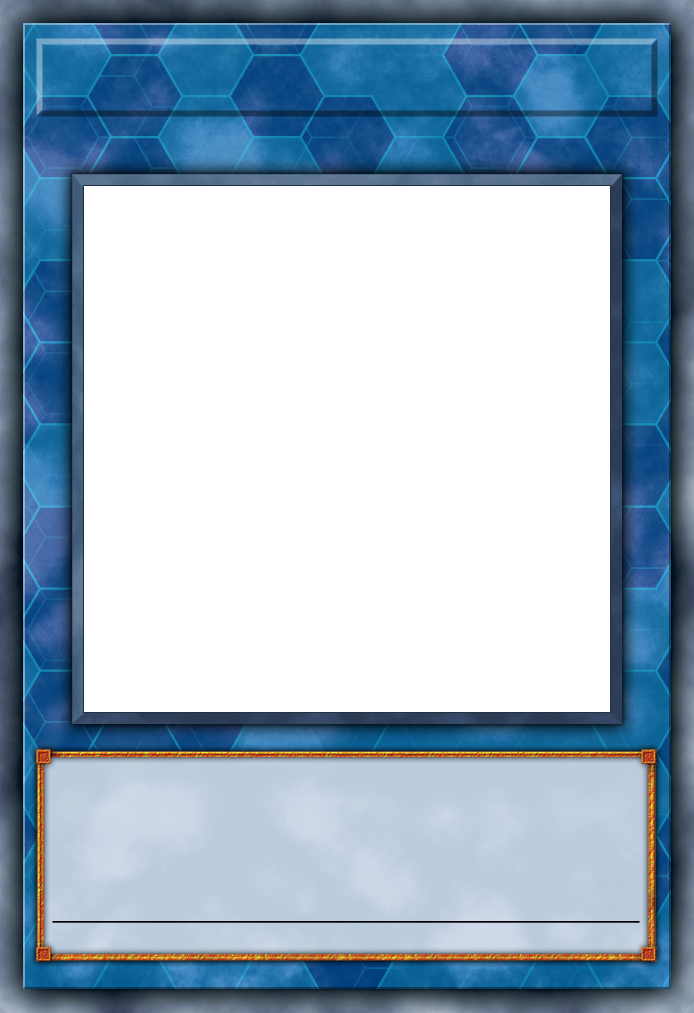
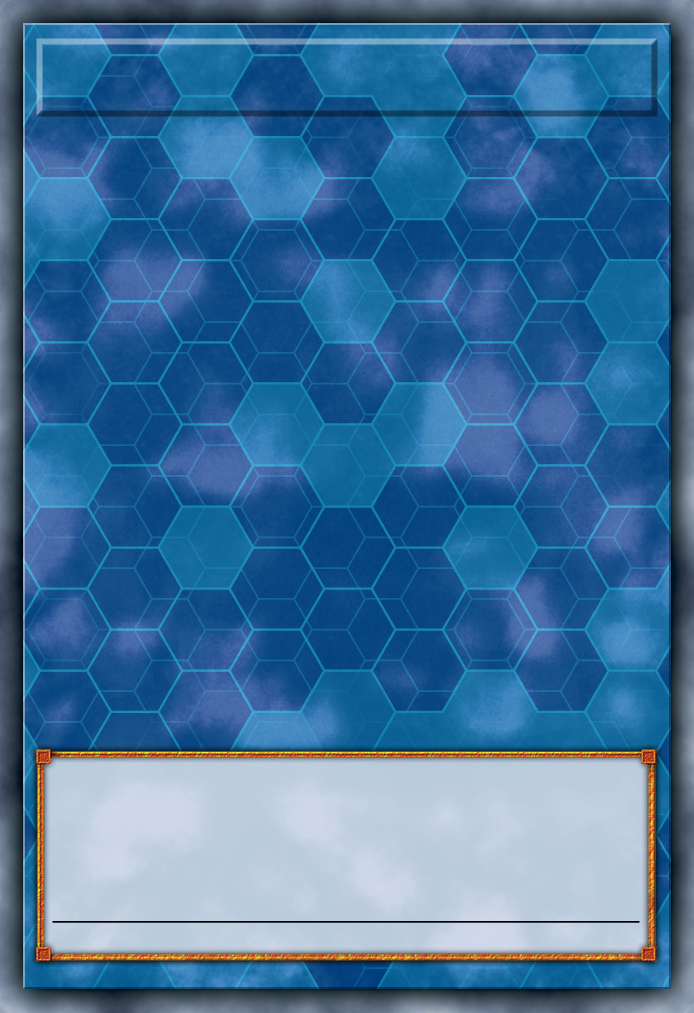
Added interactive link arrows.

diff --git a/client/app/components/cards/Card.js b/client/app/components/cards/Card.js
@@ -1,6 +1,7 @@
 import React from 'react';
 import {connect} from 'react-redux';
 import _ from 'lodash';
+import $ from 'jquery';
 
 import {MonsterTypes, CardTypes} from 'client/app/constants';
 import {ActionCreators} from 'client/app/redux/actions';
@@ -13,6 +14,7 @@ import {ImageSelector} from 'client/app/components/editors/ImageSelector';
 import {TypeEditor} from 'client/app/components/editors/typeEditor/TypeEditor';
[1 lines of base64/hex data omitted]
 import {PendulumInfoEditor} from 'client/app/components/editors/PendulumInfoEditor';
+import {LinkArrowEditor} from 'client/app/components/editors/LinkArrowEditor';
 import {AutoscalingInput} from 'client/app/components/common/autoscalingInput/AutoscalingInput';
 
 import 'client/app/components/cards/Card.scss';
@@ -20,6 +22,9 @@ import image from 'client/app/assets/BlueEyesWhiteDragon.png';
 import pendulumBaseSmall from 'client/app/assets/Series 10/Pendulum/PendulumBaseSmall.png';
 import pendulumEffectSmall from 'client/app/assets/Series 10/Pendulum/PendulumEffectSmall.png';
 import normalArtBox from 'client/app/assets/Series 10/ArtBox.png';
+import linkArtBox from 'client/app/assets/Series 10/Link/LinkArrows.png';
+import cornerLinkArrow from 'client/app/assets/Series 10/Link/CornerLinkArrow2.png';
+import middleLinkArrow from 'client/app/assets/Series 10/Link/MiddleLinkArrow.png';
 
 
 class Card extends React.Component{
@@ -117,7 +122,8 @@ class Card extends React.Component{
     }
 
     renderPendulumCard(){
-        if (this.props.cardState.monsterHybridType == MonsterTypes.PENDULUM && this.props.cardState.cardType == CardTypes.MONSTER){
+        if (this.props.cardState.monsterHybridType === MonsterTypes.PENDULUM && this.props.cardState.cardType === CardTypes.MONSTER 
+        && this.props.cardState.monsterType !== MonsterTypes.LINK){
             return (
                 <div className="ygo-card-pendulum">
                     <img src={pendulumEffectSmall}/>
@@ -125,17 +131,28 @@ class Card extends React.Component{
                 </div>
             );
         }
+        else if (this.props.cardState.monsterType === MonsterTypes.LINK && this.props.cardState.cardType === CardTypes.MONSTER){
+            return (
+                <div className="card--link-art--container">
+                    <img className="card--normal-art-box" src={normalArtBox}/>
+                    <img className="card--link-art-box"src={linkArtBox}/>
+                    <LinkArrowEditor/>
+                </div>
+            );
+            
+        }
         else{
             return (
                 <div className="card--normal-art--container">
-                    <img src={normalArtBox}/>
+                    <img className="card--normal-art-box" src={normalArtBox}/>
                 </div>
             );
         }
     }
 
     renderPendulumContainer(){
-        if (this.props.cardState.monsterHybridType == MonsterTypes.PENDULUM && this.props.cardState.cardType == CardTypes.MONSTER){
+        if (this.props.cardState.monsterHybridType == MonsterTypes.PENDULUM && this.props.cardState.cardType == CardTypes.MONSTER
+        && this.props.cardState.monsterType !== MonsterTypes.LINK){
             return (
                 <PendulumInfoEditor
                     updatePendulumEffect={this.props.updatePendulumEffect}
@@ -170,6 +187,9 @@ class Card extends React.Component{
             else if (this.props.cardState.monsterType === MonsterTypes.XYZ){
                 classNames.push('xyz-monster');
             }
+            else if (this.props.cardState.monsterType === MonsterTypes.LINK){
+                classNames.push('link-monster');
+            }
             else if (this.props.cardState.effect.length > 0){
                 classNames.push('effect-monster');
             }
@@ -199,6 +219,7 @@ class Card extends React.Component{
                     {this.getCardCenterEditor()}
                     <ImageSelector
                         monsterHybridType={this.props.cardState.monsterHybridType}
+                        monsterType={this.props.cardState.monsterType}
                         cardType={this.props.cardState.cardType}
                     />
                     <div className="ygo-card-set-id"></div>

diff --git a/client/app/components/editors/LinkArrowEditor.js b/client/app/components/editors/LinkArrowEditor.js
@@ -1,0 +1,107 @@
+import React from 'react';
+import _ from 'lodash';
+import $ from 'jquery';
+
+import cornerLinkArrow from 'client/app/assets/Series 10/Link/CornerLinkArrow2.png';
+import cornerLinkArrowHovered from 'client/app/assets/Series 10/Link/CornerLinkArrowHovered.png';
+import middleLinkArrow from 'client/app/assets/Series 10/Link/MiddleLinkArrow.png';
+import middleLinkArrowHovered from 'client/app/assets/Series 10/Link/MiddleLinkArrowHovered.png';
+
+class LinkArrowEditor extends React.Component{
+    constructor(props){
+        super(props);
+        
+        this.state = {};
+        for (let i=0; i<8; ++i){
+            this.state[`arrow${i}IsHovered`] = false;
+        }
+    }
+
+    getArrowImg(index, arrowType){
+        const key = `arrow${index}IsHovered`;
+        if (arrowType === 'corner'){
+            if (this.state[key]) return cornerLinkArrowHovered;
+            else return cornerLinkArrow;
+        }
+        else if (arrowType === 'middle'){
+            if (this.state[key]) return middleLinkArrowHovered;
+            else return middleLinkArrow;
+        }
+    }
+
+    handleOnMouseEnterArrow(index){
+        const key = `arrow${index}IsHovered`;
+        this.setState({
+            [key]: true
+        });
+    }
+
+    handleOnMouseLeaveArrow(index){
+        const key = `arrow${index}IsHovered`;
+        this.setState({
+            [key]: false
+        });
+    }
+
+    render(){
+        const cardWidth = 590;
+        const cardHeight = 860;
+        const offsetX = 4.0/59 * cardWidth;
+        const offsetY = 56.9/86 * cardHeight;
+        const imgLength = 44.2/59 * cardWidth;
+        const middleImgLength = 48.2/59 * cardWidth;
+        const middleOffsetX = 5.3/59 * cardWidth;
+        const middleOffsetY = 62.2/86 * cardHeight; 
+        console.log(offsetX, offsetY);
+        return (
+            <div className="card--link-arrow--container">
+                {_.map([0,2,4,8], (arrowIndex, i) => {
+                    const x = i % 2;
+                    const y = Math.floor(i/2);
+                    const sx = -2*x + 1;
+                    const sy = -2*y + 1
+                    const style = {
+                        left: `${x*imgLength + offsetX}px`,
+                        top: `${(y*-imgLength) + offsetY}px`,
+                        transform: `scale(${sx}, ${sy})`
+                    }
+                    return (
+                        <img 
+                            style={style} 
+                            key={`${i}-corner`} 
+                            onMouseEnter={(event) => this.handleOnMouseEnterArrow(arrowIndex)}
+                            onMouseLeave={(event) => this.handleOnMouseLeaveArrow(arrowIndex)}
+                            className="card--link-arrow-corner" 
+                            src={this.getArrowImg(arrowIndex, 'corner')}
+                        />
+                    );
+                })}
+                {_.map([1,3,5,7], (arrowIndex, i) => {
+                    const x = i % 2;
+                    const y = Math.floor(i/2);
+                    const inset = (2*y-1)*.5;
+                    const insetX = x === 1 ? inset+.5 : .5;
+                    const insetY = x === 0 ? inset+.5 : .5;
+                    const centerOffset = -65;
+                    const middleStyle = {
+                        left: `${insetX*middleImgLength + middleOffsetX + centerOffset}px`,
+                        top: `${(insetY*-middleImgLength) + middleOffsetY + centerOffset}px`,
+                        transform: `rotate(${90*i}deg)`
+                    }
+                    return (
+                        <img 
+                            style={middleStyle} 
+                            key={`${i}-middle`} 
+                            onMouseEnter={(event) => this.handleOnMouseEnterArrow(arrowIndex)}
+                            onMouseLeave={(event) => this.handleOnMouseLeaveArrow(arrowIndex)}
+                            src={this.getArrowImg(arrowIndex, 'middle')}
+                            className="card--link-arrow-middle" 
+                            src={middleLinkArrow}/>
+                    );
+                })}              
+            </div>
+        )
+    }
+}
+
+export {LinkArrowEditor};

diff --git a/client/app/components/editors/typeEditor/TypeEditor.js b/client/app/components/editors/typeEditor/TypeEditor.js
@@ -74,7 +74,7 @@ class TypeEditor extends React.Component{
     }
 
     renderMonsterHybridTypeDivider(){
-        if(this.props.monsterHybridType !== MonsterTypes.PURE || this.state.editorIsFocused || this.state.editorIsHovered){
+        if((this.props.monsterHybridType !== MonsterTypes.PURE && this.props.monsterType !== MonsterTypes.LINK) || this.state.editorIsFocused || this.state.editorIsHovered){
             return (
                 <span>/</span>
             );
@@ -145,7 +145,7 @@ class TypeEditor extends React.Component{
                     <SelectInput 
                         onChange={this.props.updateMonsterType} 
                         selectedItem={this.props.monsterType}
-                        selectOptions={[MonsterTypes.BASIC, MonsterTypes.FUSION, MonsterTypes.SYNCHRO, MonsterTypes.RITUAL, MonsterTypes.XYZ]}
+                        selectOptions={[MonsterTypes.BASIC, MonsterTypes.FUSION, MonsterTypes.SYNCHRO, MonsterTypes.RITUAL, MonsterTypes.XYZ, MonsterTypes.LINK]}
                         shouldHideSelectedItem={() => this.props.monsterType === MonsterTypes.BASIC}
                         onFocus={(event) => this.handleOnFocus()}
                         onBlur={(event) => this.handleOnBlur()}
@@ -155,7 +155,7 @@ class TypeEditor extends React.Component{
                         onChange={this.props.updateMonsterHybridType} 
                         selectedItem={this.props.monsterHybridType}
                         selectOptions={[MonsterTypes.PURE, MonsterTypes.PENDULUM]}
-                        shouldHideSelectedItem={() => this.props.monsterHybridType === MonsterTypes.PURE}
+                        shouldHideSelectedItem={() => this.props.monsterHybridType === MonsterTypes.PURE || this.props.monsterType === MonsterTypes.LINK}
                         onFocus={(event) => this.handleOnFocus()}
                         onBlur={(event) => this.handleOnBlur()}
                         showEditor={this.state.editorIsFocused || this.state.editorIsHovered}/>

diff --git a/client/app/components/cards/Card.scss b/client/app/components/cards/Card.scss
@@ -98,6 +98,14 @@ font-face{
     }
   }
 
+  &.link-monster{
+    background-image: url("~client/app/assets/Series 10/LinkMonster.png");.ygo-card-name{
+      input{
+        color: white;
+      }  
+    }
+  }
+
   &.spell-card{
     background-image: url("~client/app/assets/Series 10/SpellCard2.png");
     .ygo-card-name{
@@ -117,15 +125,30 @@ font-face{
   }
 }
 
-.ygo-card-pendulum, .ygo-card-pendulum img, .card--normal-art--container, .card--normal-art--container img{
+.ygo-card-pendulum, .ygo-card-pendulum img, .card--normal-art--container, .card--normal-art-box, .card--link-art--container{
   pointer-events: none;
   position: absolute;
   width: 100%;
+}
+
+.ygo-card-pendulum, .ygo-card-pendulum img, .card--link-art-box{
   z-index: 10;
 }
 
-.card--normal-art--container, .card--normal-art--container img{
-  z-index: 0;
+.card--link-arrow--container{
+  height: 100%;
+  img{
+    pointer-events: initial;
+    cursor: pointer;
+    position: absolute;
+    z-index: 11;
+  }
+  .card--link-arrow-corner{
+    width: 68px; 
+  }
+  .card--link-arrow-middle{
+    height: 130px;
+  }
 }
 
 .ygo-card-top, .ygo-card-bottom{
@@ -163,6 +186,10 @@ font-face{
 
     &.ygo-card-stars-rank{
       flex-direction: row;
+    }
+
+    &.level--editor--invisible{
+      visibility: hidden;
     }
 
     .ygo-card-level-selected, .ygo-card-level-unselected{

diff --git a/client/app/components/editors/ImageSelector.js b/client/app/components/editors/ImageSelector.js
@@ -35,7 +35,7 @@ class ImageSelector extends React.Component{
 
     getClassNames(){
         let classNames = ['ygo-card-image'];
-        if (this.props.monsterHybridType === MonsterTypes.PENDULUM && this.props.cardType === CardTypes.MONSTER){
+        if (this.props.monsterHybridType === MonsterTypes.PENDULUM && this.props.cardType === CardTypes.MONSTER && this.props.monsterType !== MonsterTypes.LINK){
             classNames.push('ygo-card-image-pendulum');
         }
         return classNames.join(' ');

diff --git a/client/app/components/editors/LevelSelector.js b/client/app/components/editors/LevelSelector.js
@@ -70,6 +70,9 @@ class LevelSelector extends React.Component {
         if (this.props.monsterType === MonsterTypes.XYZ){
             classNames.push('ygo-card-stars-rank');
         }
+        else if (this.props.monsterType === MonsterTypes.LINK){
+            classNames.push('level--editor--invisible');
+        }
         return classNames.join(' ');
     }
 

diff --git a/client/app/constants.js b/client/app/constants.js
@@ -4,6 +4,7 @@ export const MonsterTypes = {
     SYNCHRO: 'Synchro',
     RITUAL: 'Ritual',
     XYZ: 'Xyz',
+    LINK: 'Link',
     PENDULUM: 'Pendulum',
     PURE: 'Pure'
 }
